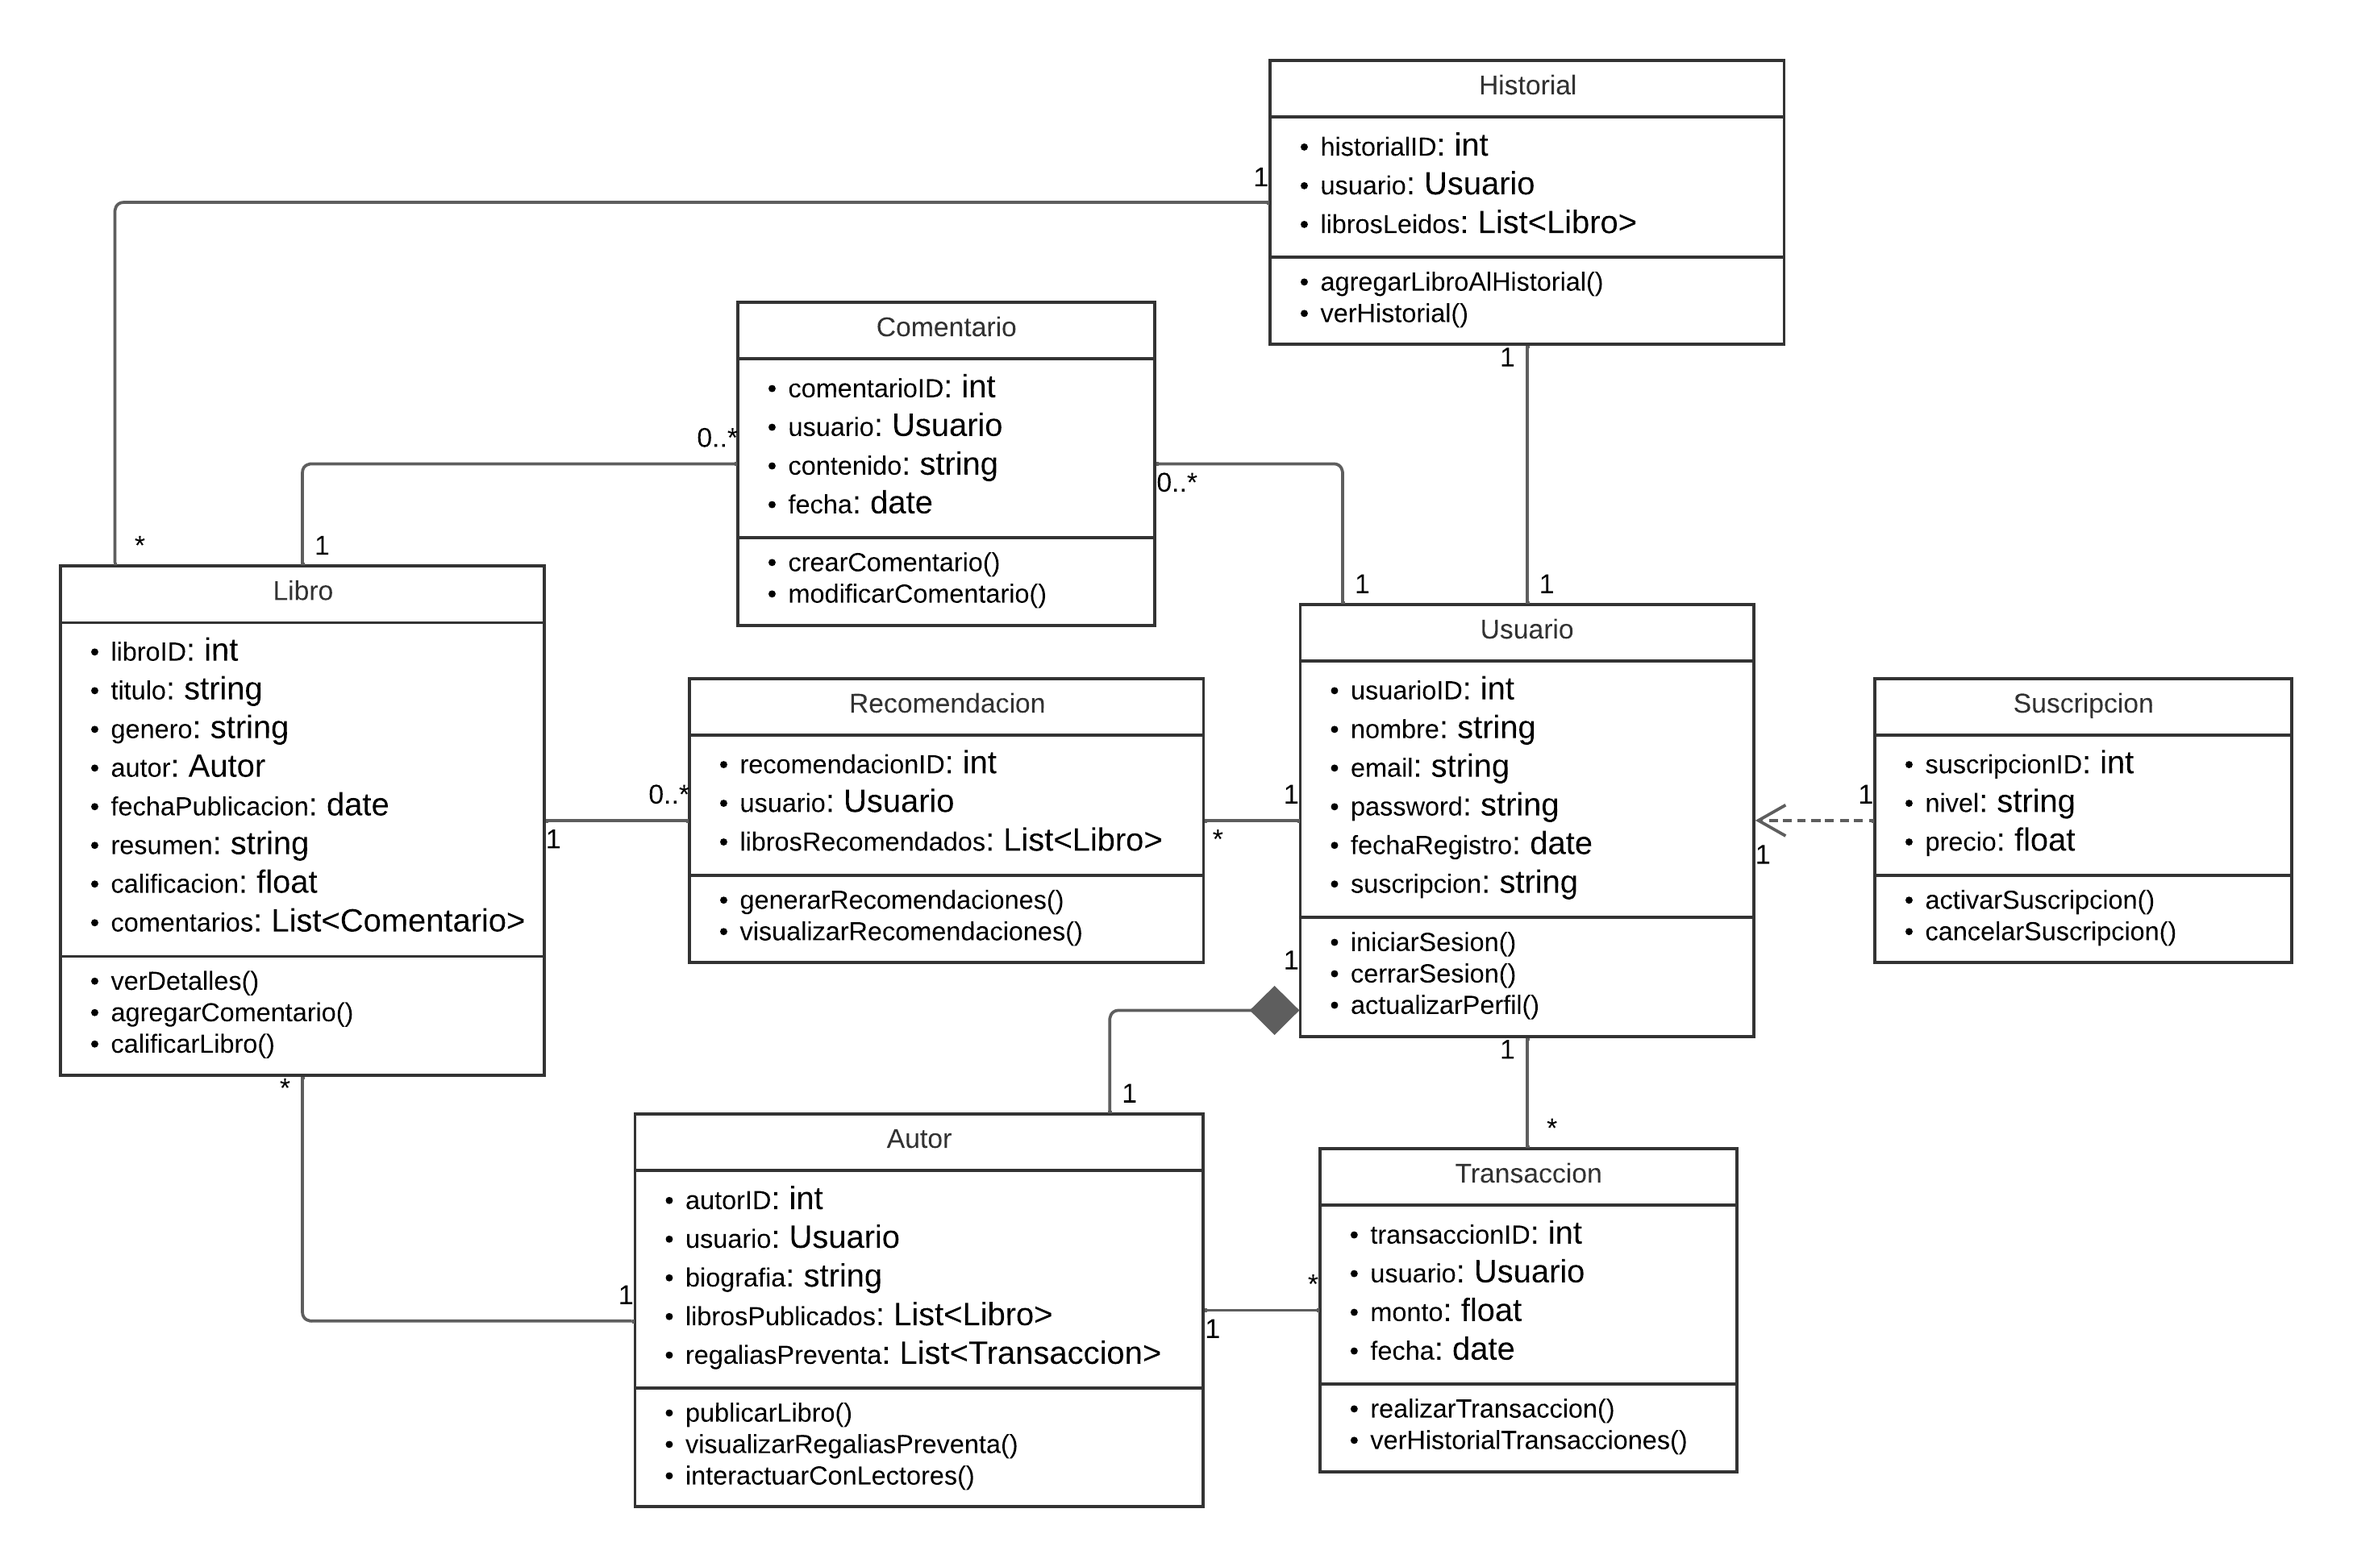
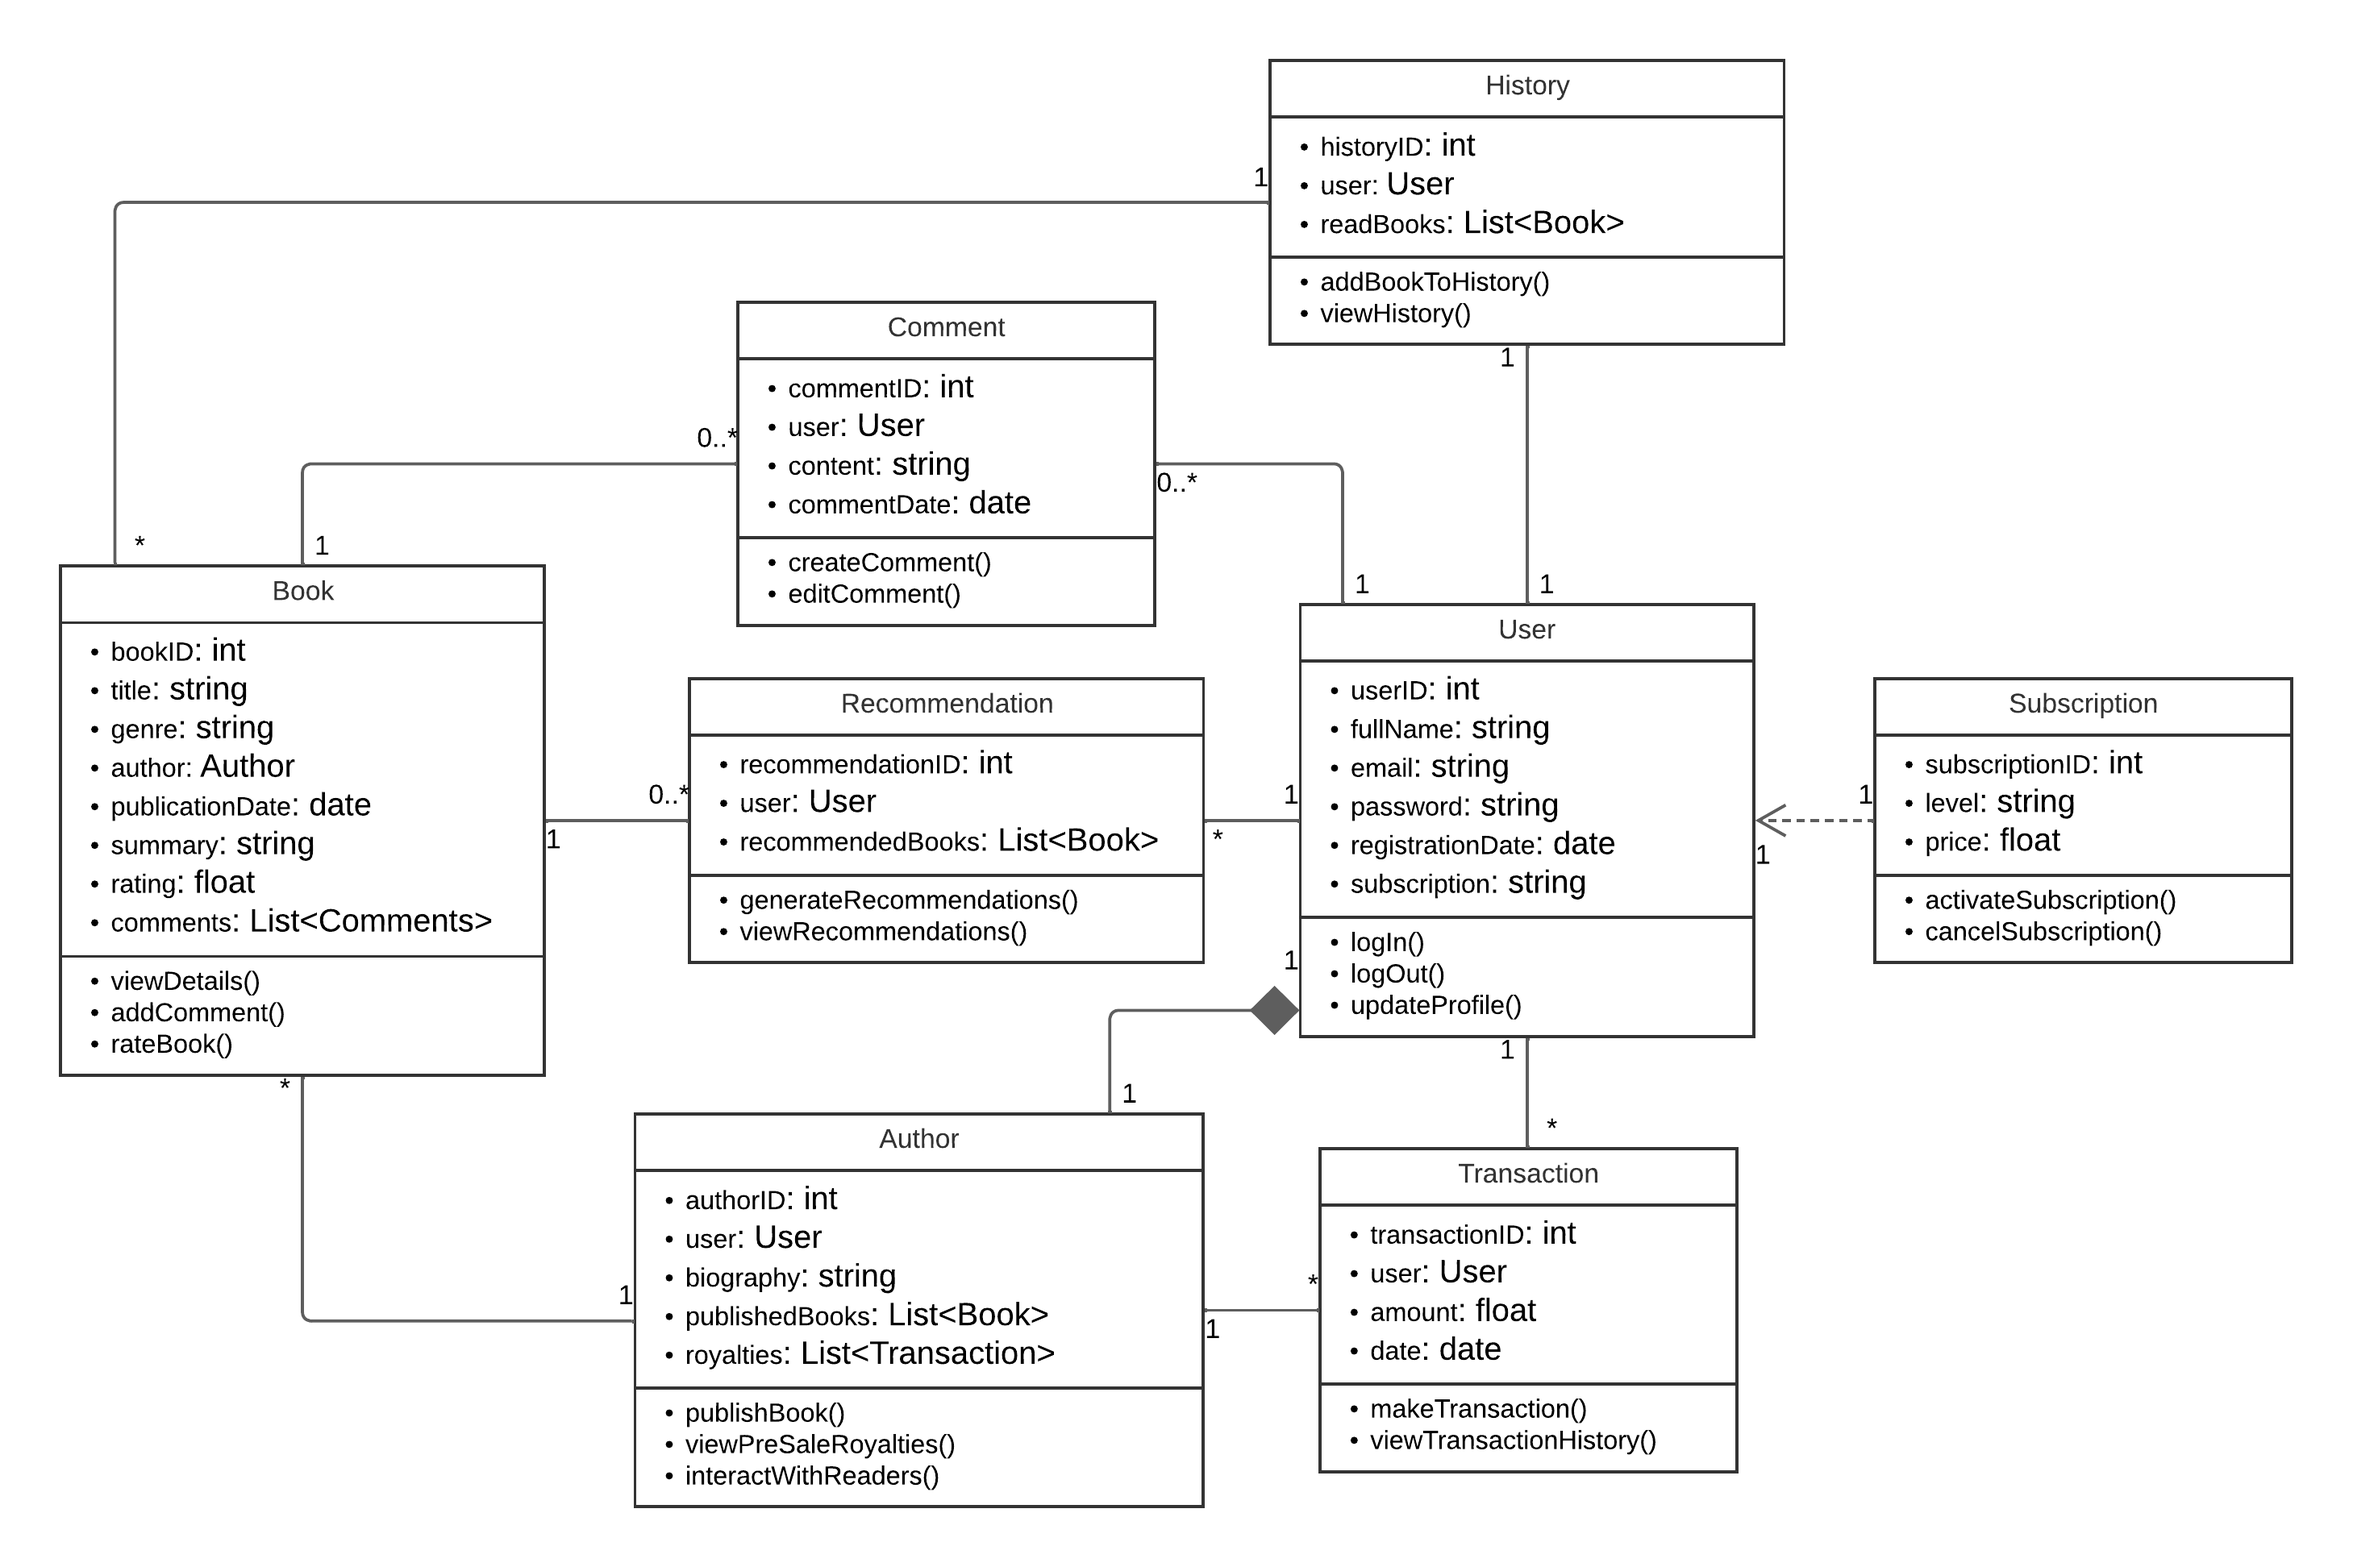
fix(class diagram): changing the language of the classes and attributes

diff --git a/README.md b/README.md
@@ -95,6 +95,7 @@
   - [4.7. Software Object-Oriented Design](#47-software-object-oriented-design)
     - [4.7.1. Class Diagrams](#471-class-diagrams)
     - [4.7.2. Class Dictionary](#472-class-dictionary)
+- [Clases y Atributos en Inglés](#clases-y-atributos-en-inglés)
   - [4.8. Database Design](#48-database-design)
     - [4.8.1. Database Diagram](#481-database-diagram)
 - [Capítulo V: Product Implementation, Validation \& Deployment](#capítulo-v-product-implementation-validation--deployment)
@@ -381,81 +382,84 @@ El Domain Driven Design (DDD) busca lograr una comprensión común del dominio q
 <img src="images/DiagramaUML.png" alt="Class Diagram" style="width: 100%;">
 
 ### 4.7.2. Class Dictionary
-Clase Usuario:
+# Clases y Atributos en Inglés
 
-| Nombre    | Atributo | Descripción           |
-|-----------|----------|-----------------------|
-| usuarioID |  int  | ID del usuario    |
-| nombre  | string  | Nombre completo del usuario  |
-| email | string | Correo del usuario    |
-| password | string  | Contraseña del usuario |
-| fechaRegistro  | date | Fecha en la que se registro en la aplicación |
-| suscripcion  | string | Tipo de suscripción |
+Class User:
 
-Clase Autor:
+| Name             | Attribute Type | Description                                     |
+|------------------|----------------|-------------------------------------------------|
+| userID           | int            | ID del usuario                                  |
+| fullName         | string         | Nombre completo del usuario                     |
+| email            | string         | Correo del usuario                              |
+| password         | string         | Contraseña del usuario                          |
+| registrationDate | date           | Fecha en la que se registró en la aplicación    |
+| subscription     | string         | Tipo de suscripción                             |
 
-| Nombre    | Atributo | Descripción           |
-|-----------|----------|-----------------------|
-| autorID    | int     | ID del autor    |
-| usuario    | Usuario     | Usuario registrado como autor    |
-| biografia    | string     | Biografia del autor    |
-| librosPublicados    | List<Libro>     | Lista de libros publicados    |
-| regalias    | List<Transaccion>     | Regalías transferidas al autor en la preventa    |
+Class Author:
 
-Clase Historial:
+| Name            | Attribute Type   | Description                                           |
+|-----------------|------------------|-------------------------------------------------------|
+| authorID        | int              | ID del autor                                          |
+| user            | User             | Usuario registrado como autor                         |
+| biography       | string           | Biografía del autor                                   |
+| publishedBooks  | List<Book>       | Lista de libros publicados                            |
+| royalties       | List<Transaction>| Regalías transferidas al autor en la preventa         |
 
-| Nombre    | Atributo | Descripción           |
-|-----------|----------|-----------------------|
-| historialID    | int   | Id del historial del usuario    |
-| usuario    | Usuario   | Usuario al que le pertenece el historial    |
-| librosLeidos    | List<Libro>   | Lista de los libros leidos    |
+Class History:
 
-Clase Libro:
+| Name          | Attribute Type  | Description                                      |
+|---------------|-----------------|--------------------------------------------------|
+| historyID     | int             | ID del historial del usuario                     |
+| user          | User            | Usuario al que le pertenece el historial         |
+| readBooks     | List <Book>     | Lista de los libros leídos                       |
 
-| Nombre    | Atributo | Descripción           |
-|-----------|----------|-----------------------|
-| libroID    | int   | Id del libro    |
-| titulo    | string   | Título del libro    |
-| genero    | string   | Genero del libro    |
-| autor    | Autor   | Autor del libro    |
-| fechaPublicacion    | date   | Fecha de publicación del libro    |
-| resumen    | string   | Un pequeño resumen del libro    |
-| calificacion    | float   | Media de estrellas que le da el usuario al libro    |
-| comentarios    | List<Comentario>   | Lista de los comentarios de los usuarios    |
+Class Book:
 
-Clase Comentario:
+| Name              | Attribute Type | Description                                       |
+|-------------------|----------------|---------------------------------------------------|
+| bookID            | int            | ID del libro                                      |
+| title             | string         | Título del libro                                  |
+| genre             | string         | Género del libro                                  |
+| author            | Author         | Autor del libro                                   |
+| publicationDate   | date           | Fecha de publicación del libro                    |
+| summary           | string         | Un pequeño resumen del libro                      |
+| rating            | float          | Media de estrellas que le da el usuario al libro  |
+| comments          | List<Comment>  | Lista de los comentarios de los usuarios          |
 
-| Nombre    | Atributo | Descripción           |
-|-----------|----------|-----------------------|
-| comentarioID  | int   | ID del comentario dejado  |
-| usuario  | Usuario   | Usuario que comento  |
-| contenido  | string   | Contenido del comentario  |
-| fecha  | date   | Fecha en la que se publicó el comentario  |
+Class Comment:
 
-Clase Recomendacion:
+| Name         | Attribute Type | Description                                    |
+|--------------|----------------|------------------------------------------------|
+| commentID    | int            | ID del comentario dejado                       |
+| user         | User           | Usuario que comentó                            |
+| content      | string         | Contenido del comentario                       |
+| commentDate  | date           | Fecha en la que se publicó el comentario       |
 
-| Nombre    | Atributo | Descripción           |
-|-----------|----------|-----------------------|
-| recomendacionID  | int   | ID de la lista de recomendación  |
-| usuario  | Usuario   | Usuario al que se le hace la recomendación  |
-| librosRecomendados  | List<Libro>   | Lista de libros recomendados  |
+Class Recommendation:
 
-Clase Transaccion:
+| Name               | Attribute Type | Description                                 |
+|--------------------|----------------|---------------------------------------------|
+| recommendationID   | int            | ID de la lista de recomendación             |
+| user               | User           | Usuario al que se le hace la recomendación  |
+| recommendedBooks   | List<Book>     | Lista de libros recomendados                |
 
-| Nombre    | Atributo | Descripción           |
-|-----------|----------|-----------------------|
-| transaccionID  | int   | ID de la transacción hecha  |
-| usuario  | Usuario   | Usuario que realizo la transacción  |
-| monto  | float   | Monto de la transacción  |
-| fecha  | date   | Fecha en la que se realizo la transacción  |
+Class Transaction:
 
-Clase Suscripcion:
+| Name           | Attribute Type | Description                                    |
+|----------------|----------------|------------------------------------------------|
+| transactionID  | int            | ID de la transacción hecha                     |
+| user           | User           | Usuario que realizó la transacción             |
+| amount         | float          | Monto de la transacción                        |
+| date           | date           | Fecha en la que se realizó la transacción      |
 
-| Nombre    | Atributo | Descripción           |
-|-----------|----------|-----------------------|
-| suscripcionID  | int   | ID de la suscripción  |
-| nivel  | string   | Nivel de suscripción del usuario  |
-| precio  | float   | Precio de la suscripción  |
+Class Subscription:
+
+| Name           | Attribute Type | Description                                    |
+|----------------|----------------|------------------------------------------------|
+| subscriptionID | int            | ID de la suscripción                           |
+| level          | string         | Nivel de suscripción del usuario               |
+| price          | float          | Precio de la suscripción                       |
+
 
 ## 4.8. Database Design
 ### 4.8.1. Database Diagram
